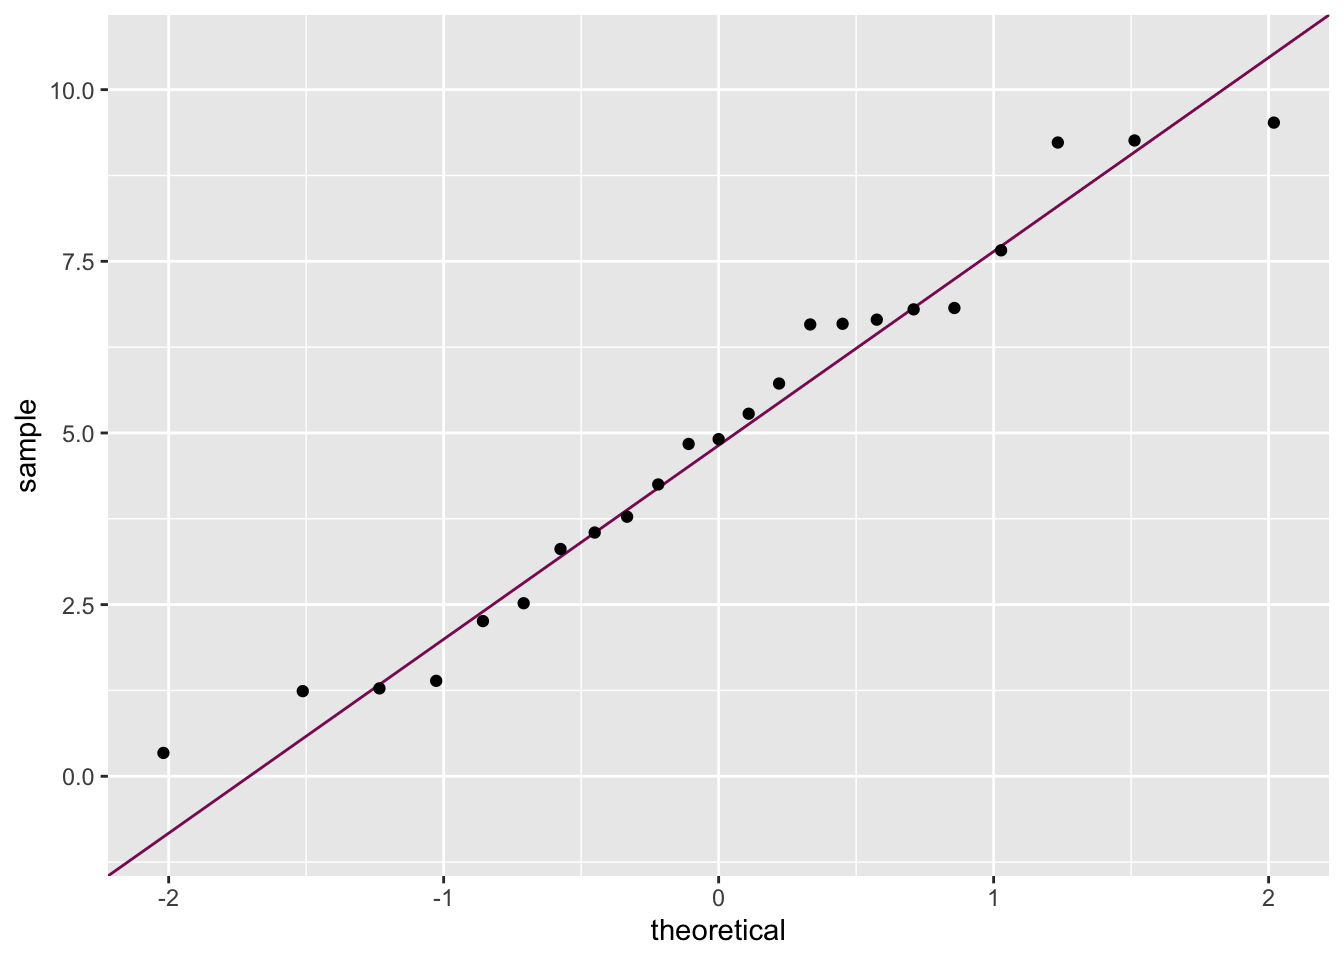
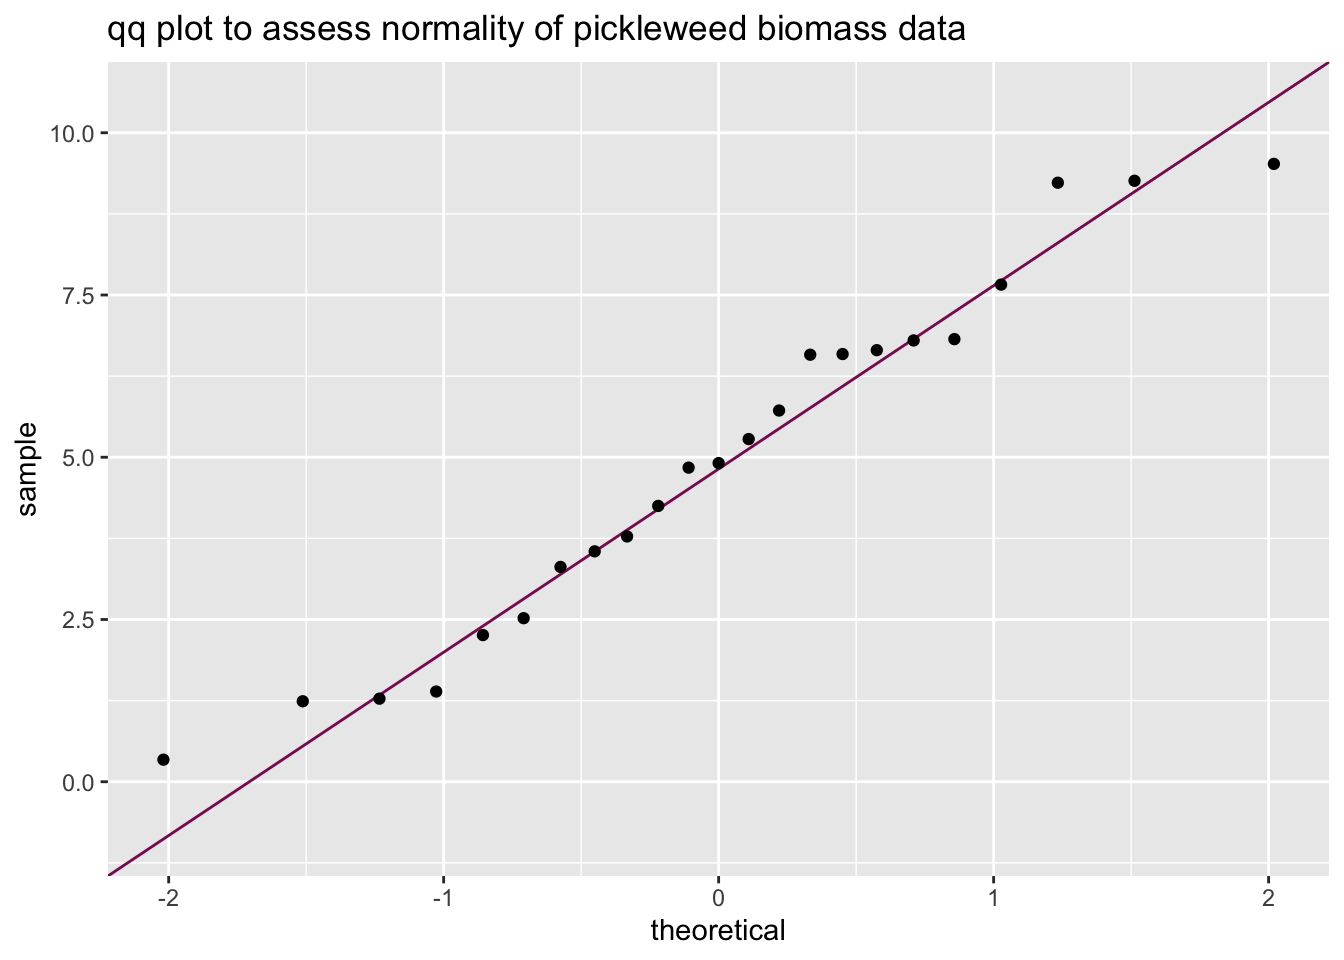
editing appropriate test and adding title to qq plots

diff --git a/Code/homework_03.html b/Code/homework_03.html
@@ -207,7 +207,7 @@ window.Quarto = {
 <h1>Problem 1. Slough soil salinity</h1>
 <section id="a.-an-apropriate-test" class="level2">
 <h2 class="anchored" data-anchor-id="a.-an-apropriate-test">a. An apropriate test</h2>
-<p>To test the strength of the relationship between salinity and California pickleweed biomass, I would use Pearson’s correlation or Spearman’s Rank. Pearsons’ correlation is the parametric version to measure the strength of a linear relationship. In contrast, Spearman rank correlation is the non-parametric version and tests for a monotonic relationship based on ranks between variables. Pearson’s correlation requires an approximately normal distribution and continous variables while Spearman’s rank does not have this requirement.</p>
+<p>To test the strength of the relationship between salinity and California pickleweed biomass, I would use Pearson’s correlation or Spearman’s Rank. Pearsons’ correlation is the parametric version to measure the strength of a linear relationship. In contrast, Spearman rank correlation is the non-parametric version and tests for a monotonic relationship based on ranks between variables. Pearson’s correlation requires an approximately normal distribution and continous variables while Spearman’s rank does not have these requirements.</p>
 </section>
 <section id="b.-create-visualization" class="level2">
 <h2 class="anchored" data-anchor-id="b.-create-visualization">b. Create visualization</h2>
@@ -253,7 +253,8 @@ window.Quarto = {
 <span id="cb3-4"><a href="#cb3-4" aria-hidden="true" tabindex="-1"></a>           )) <span class="sc">+</span> </span>
 <span id="cb3-5"><a href="#cb3-5" aria-hidden="true" tabindex="-1"></a>  <span class="fu">geom_qq_line</span>(<span class="at">color =</span> <span class="st">"maroon4"</span>) <span class="sc">+</span> <span class="co"># reference line in maroon</span></span>
 <span id="cb3-6"><a href="#cb3-6" aria-hidden="true" tabindex="-1"></a>  <span class="fu">geom_qq</span>() <span class="sc">+</span> <span class="co"># points on qqplot</span></span>
-<span id="cb3-7"><a href="#cb3-7" aria-hidden="true" tabindex="-1"></a>  <span class="fu">theme</span>(<span class="at">legend.position =</span> <span class="st">"none"</span>) <span class="co"># removing the legend</span></span></code></pre></div><button title="Copy to Clipboard" class="code-copy-button"><i class="bi"></i></button></div>
+<span id="cb3-7"><a href="#cb3-7" aria-hidden="true" tabindex="-1"></a>  <span class="fu">labs</span>(<span class="at">title =</span> <span class="st">"qq plot to assess normality of pickleweed biomass data"</span>) <span class="sc">+</span> <span class="co"># adding title for qq plot</span></span>
+<span id="cb3-8"><a href="#cb3-8" aria-hidden="true" tabindex="-1"></a>  <span class="fu">theme</span>(<span class="at">legend.position =</span> <span class="st">"none"</span>) <span class="co"># removing the legend</span></span></code></pre></div><button title="Copy to Clipboard" class="code-copy-button"><i class="bi"></i></button></div>
 <div class="cell-output-display">
 <div>
 <figure class="figure">
@@ -269,7 +270,8 @@ window.Quarto = {
 <span id="cb4-4"><a href="#cb4-4" aria-hidden="true" tabindex="-1"></a>           )) <span class="sc">+</span> </span>
 <span id="cb4-5"><a href="#cb4-5" aria-hidden="true" tabindex="-1"></a>  <span class="fu">geom_qq_line</span>(<span class="at">color =</span> <span class="st">"maroon4"</span>) <span class="sc">+</span> <span class="co"># reference line in maroon</span></span>
 <span id="cb4-6"><a href="#cb4-6" aria-hidden="true" tabindex="-1"></a>  <span class="fu">geom_qq</span>() <span class="sc">+</span> <span class="co"># points on qqplot</span></span>
-<span id="cb4-7"><a href="#cb4-7" aria-hidden="true" tabindex="-1"></a>  <span class="fu">theme</span>(<span class="at">legend.position =</span> <span class="st">"none"</span>) <span class="co"># removing the legend</span></span></code></pre></div><button title="Copy to Clipboard" class="code-copy-button"><i class="bi"></i></button></div>
+<span id="cb4-7"><a href="#cb4-7" aria-hidden="true" tabindex="-1"></a>  <span class="fu">labs</span>(<span class="at">title =</span> <span class="st">"qq plot to assess normality of salinity data"</span>) <span class="sc">+</span> <span class="co"># adding title for qq plot</span></span>
+<span id="cb4-8"><a href="#cb4-8" aria-hidden="true" tabindex="-1"></a>  <span class="fu">theme</span>(<span class="at">legend.position =</span> <span class="st">"none"</span>) <span class="co"># removing the legend</span></span></code></pre></div><button title="Copy to Clipboard" class="code-copy-button"><i class="bi"></i></button></div>
 <div class="cell-output-display">
 <div>
 <figure class="figure">
